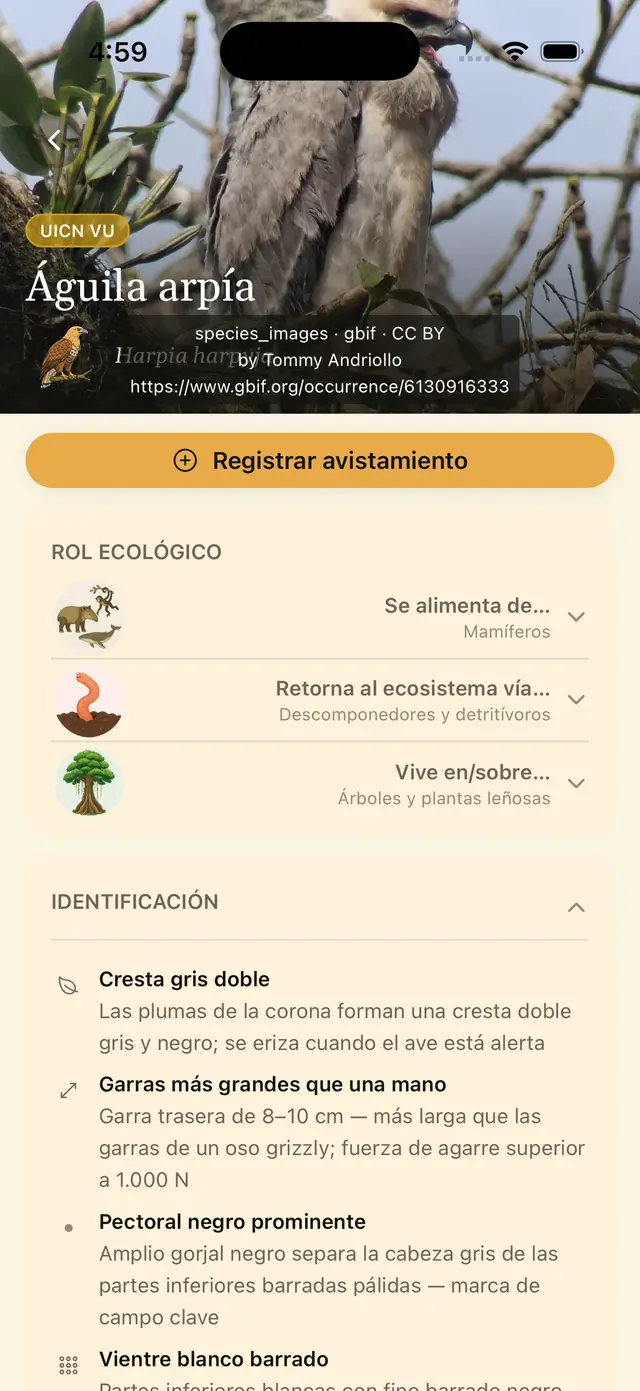
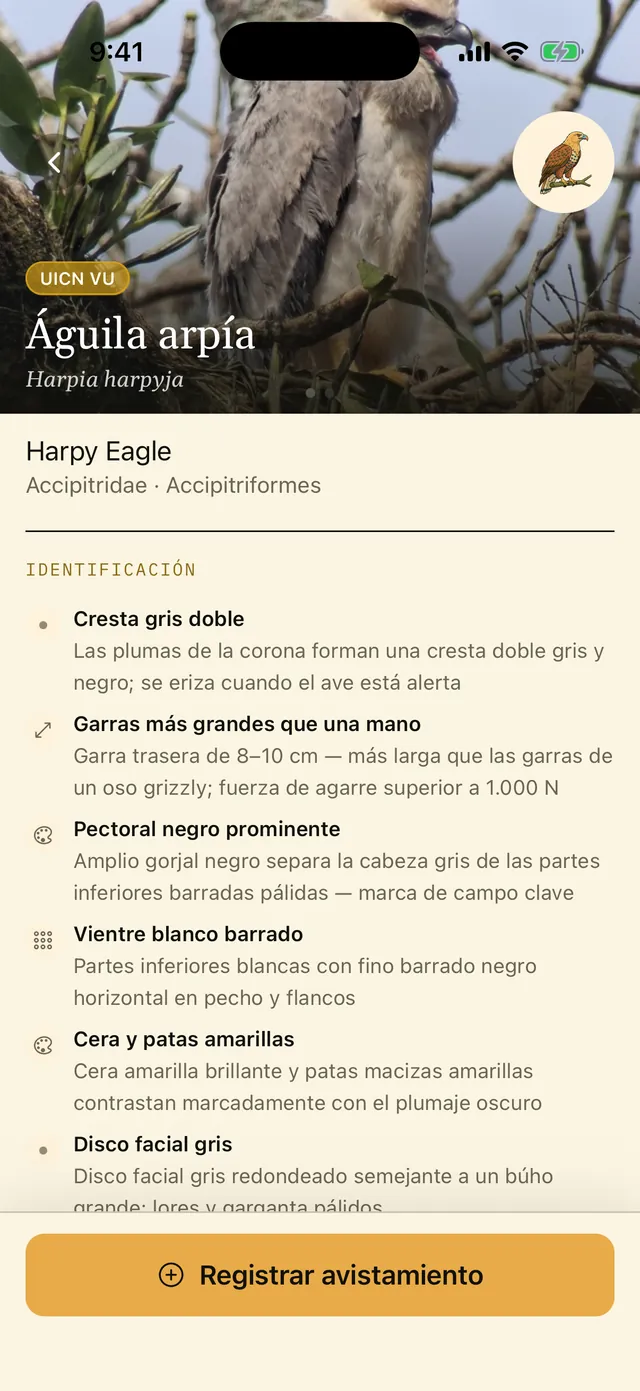
New app screenshots, and the copy caught up with the app
- The harpy eagle card and the wizard's colour question, recaptured in
  Spanish and English from a Release build of taxon-icon-wiring (eb89c1e) on
  a dedicated simulator: no debug credit overlay (it was in the old hero),
  a 9:41 status bar. The hero caption now credits the photo, Tommy Andriollo
  (CC BY), and the alt text describes what the frame shows.
- «Mi Lista» / "My List" replaces cuaderno / journal (founder ruling
  2026-09-24).
- "Nobody else sees it" was no longer true: sharing with the Tawari team is
  on by default, and only the team sees it. An unidentified sighting now goes
  to the team to identify. Skipping the wizard's location step searches every
  place (ruling 2026-09-25). The wizard's first question includes fungi.
- The Field-find explorer shows no figures, per the founder ruling of
  2026-09-23 that no count is visible to a reader: no counts on tabs or
  chips, no "24 de 100 especies", no records badge, "Ver más" with no number.
- The thirteen screenshots no page used are removed.

diff --git a/index.html b/index.html
@@ -55,8 +55,8 @@
     </div>
     <div class="phone">
       <figure>
-        <img src="assets/screens/card-aguila-arpia.webp" alt="Ficha del águila arpía en Tawari, con su foto, sus rasgos y sus relaciones ecológicas" width="360" height="780" fetchpriority="high">
-        <figcaption>El águila arpía, <span class="sci">Harpia harpyja</span>.</figcaption>
+        <img src="assets/screens/card-aguila-arpia.webp" alt="Ficha del águila arpía en Tawari, con su foto y los rasgos para reconocerla" width="360" height="783" fetchpriority="high">
+        <figcaption>El águila arpía, <span class="sci">Harpia harpyja</span>. Foto: Tommy Andriollo (CC BY).</figcaption>
       </figure>
     </div>
   </div>
@@ -77,7 +77,6 @@
       <div id="findBody" hidden>
         <div class="controls">
           <input type="search" id="findQ" placeholder="Busca un nombre…" aria-label="Buscar especie">
-          <span class="count" id="findCount"></span>
         </div>
         <div class="chips" id="findChips"></div>
         <div class="sp-grid" id="findGrid"></div>
@@ -110,12 +109,12 @@
     </div>
     <div class="step">
       <div class="txt">
-        <p>Viste algo. Abres el asistente y respondes lo que sepas: si era un animal o una planta, y después detalles como la silueta o los colores. Cualquier paso se puede omitir. Al final salen las especies que coinciden, pero solo entre las registradas en el lugar donde estás, porque una especie que nadie ha visto ahí no debería aparecer en una lista que dice qué vive ahí.</p>
-        <p>En la ficha encuentras cómo reconocerla, cuándo aparece, quién la come y qué significa para la gente de aquí. Si registras el avistamiento, se queda en tu cuaderno con su fecha y su lugar. Por ahora nadie más lo ve; pronto podrás compartirlo con tu comunidad.</p>
-        <p>Y si no encuentras lo que viste, igual puedes registrarlo sin identificar, con foto y notas, y volver a él después. Si crees que a un lugar le falta una especie, escríbenos a <a href="mailto:hello@tawari.app">hello@tawari.app</a> y la revisamos.</p>
+        <p>Viste algo. Abres el asistente y respondes lo que sepas: si era un animal, una planta o un hongo, y después detalles como la silueta o los colores. Cualquier paso se puede omitir. Al final salen las especies que coinciden. Si le dices dónde estás, solo entre las registradas en ese lugar, porque una especie que nadie ha visto ahí no debería aparecer en una lista que dice qué vive ahí; si omites ese paso, busca en todos los lugares de Tawari.</p>
+        <p>En la ficha encuentras cómo reconocerla, cuándo aparece, quién la come y qué significa para la gente de aquí. Si registras el avistamiento, queda en Mi Lista con su fecha y su lugar. Por defecto también lo compartes con el equipo de Tawari, que lo usa para mejorar la guía; nadie más lo ve. Pronto podrás compartirlo con tu comunidad.</p>
+        <p>Y si no encuentras lo que viste, igual puedes registrarlo sin identificar, con una foto, una descripción o ambas, y el equipo de Tawari intentará identificarlo. Si crees que a un lugar le falta una especie, escríbenos a <a href="mailto:hello@tawari.app">hello@tawari.app</a> y la revisamos.</p>
       </div>
       <figure class="shot">
-        <img src="assets/screens/wizard-ave.webp" alt="El asistente de identificación de Tawari preguntando por los colores principales de un ave" width="340" height="737" loading="lazy" decoding="async">
+        <img src="assets/screens/wizard-ave.webp" alt="El asistente de identificación de Tawari preguntando por los colores principales de un ave" width="340" height="739" loading="lazy" decoding="async">
         <figcaption>Una de las preguntas del asistente.</figcaption>
       </figure>
     </div>
@@ -148,7 +147,7 @@
         <li><b>Hoy:</b> pre-beta cerrada. Primero en iPhone, por TestFlight; Android va después.</li>
         <li><b>Lo jugable:</b> tres gincanas, todas en el Valle del Cauca. Vienen más.</li>
         <li><b>Lo que verás:</b> errores, y fichas que todavía se quedan cortas. Cualquier retroalimentación o sugerencia es bienvenida.</li>
-        <li><b>Por ahora:</b> tu cuaderno es solo tuyo. Pronto podrás compartirlo con tu comunidad.</li>
+        <li><b>Por ahora:</b> lo que registras en Mi Lista solo lo ves tú y, si lo compartes, el equipo de Tawari. Pronto podrás compartirlo con tu comunidad.</li>
         <li><b>Sin publicidad ni rastreo</b>, ni en la app ni en este sitio. <a href="estado.html">Las cifras completas, aquí</a>.</li>
       </ul>
     </div>

diff --git a/en/index.html b/en/index.html
@@ -56,8 +56,8 @@
     </div>
     <div class="phone">
       <figure>
-        <img src="../assets/screens/en/card-aguila-arpia.webp" alt="The harpy eagle card in Tawari, with its photo, its identification traits and its ecological relationships" width="360" height="780" fetchpriority="high">
-        <figcaption>The harpy eagle, <span class="sci">Harpia harpyja</span>.</figcaption>
+        <img src="../assets/screens/en/card-aguila-arpia.webp" alt="The harpy eagle card in Tawari, with its photo and the traits to recognise it" width="360" height="783" fetchpriority="high">
+        <figcaption>The harpy eagle, <span class="sci">Harpia harpyja</span>. Photo: Tommy Andriollo (CC BY).</figcaption>
       </figure>
     </div>
   </div>
@@ -78,7 +78,6 @@
       <div id="findBody" hidden>
         <div class="controls">
           <input type="search" id="findQ" placeholder="Search for a name…" aria-label="Search species">
-          <span class="count" id="findCount"></span>
         </div>
         <div class="chips" id="findChips"></div>
         <div class="sp-grid" id="findGrid"></div>
@@ -111,12 +110,12 @@
     </div>
     <div class="step">
       <div class="txt">
-        <p>You saw something. You open the wizard and answer what you know: whether it was an animal or a plant, then details like its silhouette or colours. Any step can be skipped. At the end you get the species that match, but only from among those recorded at the place you are standing, because a species nobody has seen there doesn't belong in a list claiming to say what lives there.</p>
-        <p>On the card you find how to recognise it, when it appears, what eats it, and what it means to the people here. If you log the sighting it stays in your journal with its date and place. For now nobody else sees it; soon you'll be able to share it with your community.</p>
-        <p>And if you can't find what you saw, you can still log it unidentified, with a photo and notes, and come back to it later. If you think a place is missing a species, write to <a href="mailto:hello@tawari.app">hello@tawari.app</a> and we'll look into it.</p>
+        <p>You saw something. You open the wizard and answer what you know: whether it was an animal, a plant or a fungus, then details like its silhouette or colours. Any step can be skipped. At the end you get the species that match. Tell it where you are and it only offers those recorded at that place, because a species nobody has seen there doesn't belong in a list claiming to say what lives there; skip that step and it searches every place in Tawari.</p>
+        <p>On the card you find how to recognise it, when it appears, what eats it, and what it means to the people here. If you log the sighting it goes into My List with its date and place. By default it is also shared with the Tawari team, who use it to improve the guide; nobody else sees it. Soon you'll be able to share it with your community.</p>
+        <p>And if you can't find what you saw, you can still log it unidentified, with a photo, a description or both, and the Tawari team will try to identify it. If you think a place is missing a species, write to <a href="mailto:hello@tawari.app">hello@tawari.app</a> and we'll look into it.</p>
       </div>
       <figure class="shot">
-        <img src="../assets/screens/en/wizard-ave.webp" alt="Tawari's identification wizard asking for a bird's main colours" width="340" height="737" loading="lazy" decoding="async">
+        <img src="../assets/screens/en/wizard-ave.webp" alt="Tawari's identification wizard asking for a bird's main colours" width="340" height="739" loading="lazy" decoding="async">
         <figcaption>One of the wizard's questions.</figcaption>
       </figure>
     </div>
@@ -149,7 +148,7 @@
         <li><b>Today:</b> closed pre-beta. iPhone first, via TestFlight; Android after.</li>
         <li><b>What's playable:</b> three Field-finds, all in Valle del Cauca. More coming.</li>
         <li><b>What you'll see:</b> mistakes, and cards that still fall short. Any feedback or suggestion is welcome.</li>
-        <li><b>For now:</b> your journal is yours alone. Soon you'll be able to share it with your community.</li>
+        <li><b>For now:</b> what you log in My List is seen only by you and, if you share it, the Tawari team. Soon you'll be able to share it with your community.</li>
         <li><b>No advertising, no tracking</b>, not in the app and not on this site. <a href="status.html">The full figures are here</a>.</li>
       </ul>
     </div>

diff --git a/assets/explorer.js b/assets/explorer.js
@@ -6,15 +6,15 @@
   var ES = document.documentElement.lang !== 'en';
 
   var T = ES ? {
-    all: 'Todas', of: 'de', species: 'especies', search: 'Busca un nombre…',
-    none: 'Ninguna coincide con eso.', noneHint: 'Solo busca en esta gincana. Prueba en las otras, o con el nombre científico.', more: 'Ver más', records: 'registros', record: 'registro',
+    all: 'Todas', search: 'Busca un nombre…',
+    none: 'Ninguna coincide con eso.', noneHint: 'Solo busca en esta gincana. Prueba en las otras, o con el nombre científico.', more: 'Ver más',
     noimg: 'sin foto por ahora',
     noimgLong: 'Todavía no tenemos una foto de esta especie que podamos mostrar.',
     endemic: 'ENDÉMICA', endemicLong: 'ENDÉMICA DE COLOMBIA', photo: 'Foto', illustration: 'Ilustración', close: 'Cerrar',
     unknown: 'autor no indicado'
   } : {
-    all: 'All', of: 'of', species: 'species', search: 'Search for a name…',
-    none: 'Nothing matches that.', noneHint: 'It only searches this Field-find. Try the others, or the scientific name.', more: 'Show more', records: 'records', record: 'record',
+    all: 'All', search: 'Search for a name…',
+    none: 'Nothing matches that.', noneHint: 'It only searches this Field-find. Try the others, or the scientific name.', more: 'Show more',
     noimg: 'no photo yet',
     noimgLong: "We don't have a photo of this species we can show yet.",
     endemic: 'ENDEMIC', endemicLong: 'ENDEMIC TO COLOMBIA', photo: 'Photo', illustration: 'Illustration', close: 'Close',
@@ -72,20 +72,23 @@
 
     el('findTabs').innerHTML = DATA.map(function (p, i) {
       return '<button class="tab" role="tab" data-i="' + i + '" aria-selected="' + (i === qi) + '">' +
-        esc(ES ? p.nameEs : p.name) + '<span class="n">' + p.species.length + '</span></button>';
+        esc(ES ? p.nameEs : p.name) + '</button>';
     }).join('');
 
     var counts = {};
     all.forEach(function (s) { counts[s.group] = (counts[s.group] || 0) + 1; });
     el('findChips').innerHTML =
       '<button class="chip" data-g="" aria-pressed="' + (group === null) + '">' + T.all + '</button>' +
-      Object.keys(counts).sort(function (a, b) { return counts[b] - counts[a]; }).map(function (g) {
+      // Largest group first, as the app orders them, with the catch-all «Otros» last. The
+      // figures stay internal: founder ruling 2026-09-23, no count is shown to a reader.
+      Object.keys(counts).sort(function (a, b) {
+        return (a === 'other') - (b === 'other') || counts[b] - counts[a];
+      }).map(function (g) {
         return '<button class="chip" data-g="' + esc(g) + '" aria-pressed="' + (group === g) + '">' +
-          esc(GROUP[g] || g) + '<span class="n">' + counts[g] + '</span></button>';
+          esc(GROUP[g] || g) + '</button>';
       }).join('');
 
     var list = visible();
-    el('findCount').textContent = list.length + ' ' + T.of + ' ' + all.length + ' ' + T.species;
 
     if (!list.length) {
       el('findGrid').innerHTML = '<div class="find-state" style="grid-column:1/-1"><img src="' + base + 'assets/eyebrow/state-empty.webp" alt="" width="60" height="60"><p role="status">' + T.none + '</p>' +
@@ -107,7 +110,7 @@
     }).join('');
     var rest = list.length - shown;
     el('findMore').hidden = rest <= 0;
-    if (rest > 0) el('findMore').textContent = T.more + ' (' + rest + ')';
+    if (rest > 0) el('findMore').textContent = T.more;
   }
 
   function open(s) {
@@ -120,7 +123,6 @@
     if (s.endemic) b += '<span class="b end">' + T.endemicLong + '</span>';
     if (s.iucn) b += '<span class="b' + (THREATENED[s.iucn] ? ' thr' : '') + '">' + esc(IUCN[s.iucn] || s.iucn) + '</span>';
     b += '<span class="b">' + esc(GROUP[s.group] || s.group) + '</span>';
-    if (s.obs != null) b += '<span class="b">' + s.obs + ' ' + (s.obs === 1 ? T.record : T.records) + '</span>';
     el('dlgBadges').innerHTML = b;
     // CC BY and CC BY-SA require attribution; it ships with the photo, always.
     el('dlgCredit').textContent = s.img
